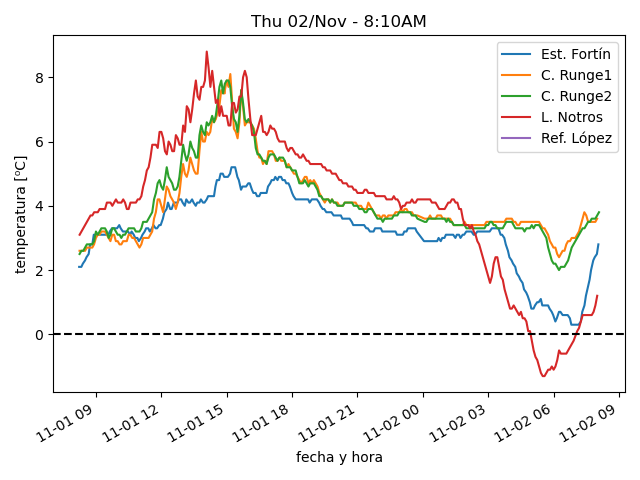
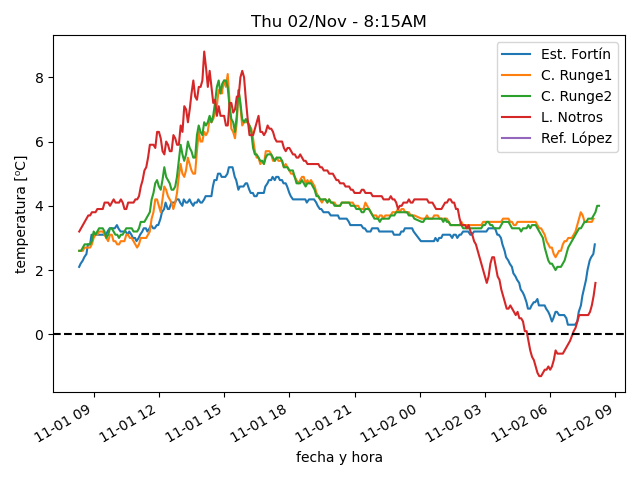
actualiza datos

diff --git a/estaciones/estacion4.html b/estaciones/estacion4.html
@@ -18,32 +18,32 @@
     </tr>
     <tr>
      <td class="stats_data">
-      8:04AM
+      8:14AM
      </td>
     </tr>
     <tr>
      <td class="stats_data">
-      3.8⁰C
+      4.0⁰C
      </td>
     </tr>
     <tr>
      <td class="stats_data">
-      1.7⁰C
+      1.6⁰C
      </td>
     </tr>
     <tr>
      <td class="stats_data">
-      86.3%
+      84.4%
      </td>
     </tr>
     <tr>
      <td class="stats_data">
-      1020.62hPa
+      1020.52hPa
      </td>
     </tr>
     <tr>
      <td class="stats_data">
-      0.0/0.1 km/hr S
+      0.6/1.0 km/hr SSE
      </td>
     </tr>
     <tr>
@@ -58,7 +58,7 @@
     </tr>
     <tr>
      <td class="stats_data">
-      70.8 W/m²
+      46.1 W/m²
      </td>
     </tr>
    </tbody>

diff --git a/estaciones/estacion1.html b/estaciones/estacion1.html
@@ -18,12 +18,12 @@
     </tr>
     <tr>
      <td class="stats_data">
-      7:49AM
+      8:09AM
      </td>
     </tr>
     <tr>
      <td class="stats_data">
-      3.8⁰C
+      3.9⁰C
      </td>
     </tr>
     <tr>
@@ -33,17 +33,17 @@
     </tr>
     <tr>
      <td class="stats_data">
-      93.0%
+      92.0%
      </td>
     </tr>
     <tr>
      <td class="stats_data">
-      1032.85hPa
+      1032.51hPa
      </td>
     </tr>
     <tr>
      <td class="stats_data">
-      0.8/1.3 km/hr SSW
+      0.2/0.3 km/hr SSW
      </td>
     </tr>
     <tr>
@@ -58,7 +58,7 @@
     </tr>
     <tr>
      <td class="stats_data">
-      15.5 W/m²
+      49.8 W/m²
      </td>
     </tr>
    </tbody>

diff --git a/estaciones/estacion5.html b/estaciones/estacion5.html
@@ -18,27 +18,27 @@
     </tr>
     <tr>
      <td class="stats_data">
-      8:00AM
+      8:05AM
      </td>
     </tr>
     <tr>
      <td class="stats_data">
-      1.2⁰C
+      1.6⁰C
      </td>
     </tr>
     <tr>
      <td class="stats_data">
-      0.1⁰C
+      0.2⁰C
      </td>
     </tr>
     <tr>
      <td class="stats_data">
-      92.0%
+      91.0%
      </td>
     </tr>
     <tr>
      <td class="stats_data">
-      1026.31hPa
+      1026.11hPa
      </td>
     </tr>
     <tr>
